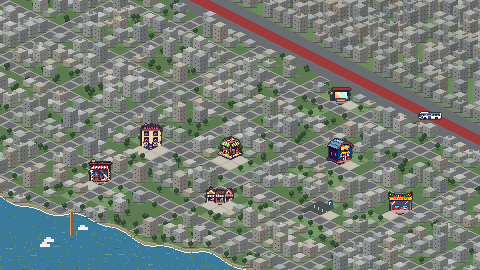
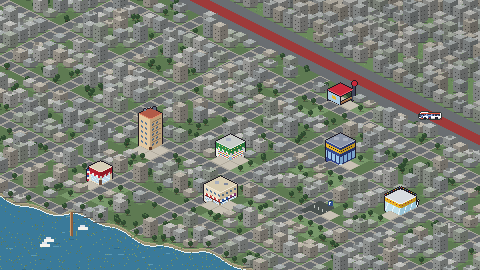
Esc: duraklatma menüsü (devam/ayarlar/ana menü); otoparkta araba kırmızı noktayla; muşta küçüldü; haritadaki mekanlar izometrik olarak yeniden çizildi

diff --git a/tools/make_citymap.py b/tools/make_citymap.py
@@ -10,7 +10,7 @@ import random
 import sys
 
 sys.path.insert(0, os.path.dirname(os.path.abspath(__file__)))
-from make_backgrounds import Painter, H, WOOD  # noqa: E402
+from make_backgrounds import Painter, H, WOOD, STONE, RED, GOLD, GREEN, NAVY  # noqa: E402
 from make_sprites import write_png  # noqa: E402
 import pngio  # noqa: E402
 
@@ -406,6 +406,221 @@ def iso_parking(p, cx, cy):
     p.fill(cx + 8, cy - 9, 5, 5, H("2d4e8c")); p.fill(cx + 9, cy - 8, 1, 3, (255, 255, 255)); p.set(cx + 10, cy - 8, (255, 255, 255))
 
 
+# ---------------------------------------------------------------- Mekan binaları (izometrik, elle; haritayla aynı açı)
+# Her bina kendi tuvalinde çizilir: zemin karosunun merkezi (BX, BY). Sol yüz sol-aşağı, sağ yüz sağ-aşağı bakar.
+
+BW, BHT = 48, 60
+BX, BY = 24, 50
+LIT_PTS = []          # gece yanacak pencereler (tuval koordinatı): place_iso haritaya taşır
+
+
+class IsoB:
+    def __init__(self, hw=13, hh=6, ox=0, oy=0):
+        self.hw, self.hh, self.ox, self.oy = hw, hh, ox, oy
+
+    def ground(self, dx):
+        return BY + self.oy + self.hh - (abs(dx) * self.hh) // self.hw
+
+    def px(self, c, dx, k, col):
+        c.set(BX + self.ox + dx, self.ground(dx) - k, col)
+
+    def body(self, c, h, wl, wr):
+        for dx in range(-self.hw, self.hw + 1):
+            col = wl if dx < 0 else wr
+            for k in range(h):
+                self.px(c, dx, k, col)
+        self.roof(c, h, _shade(wl, 1.12))
+
+    def roof(self, c, h, col, edge=None):
+        cx, cy = BX + self.ox, BY + self.oy - h
+        for dy in range(-self.hh, self.hh + 1):
+            w = self.hw - (abs(dy) * self.hw) // self.hh
+            c.fill(cx - w, cy + dy, w * 2 + 1, 1, col)
+        if edge:
+            for dx in range(-self.hw, self.hw + 1):
+                c.set(cx + dx, cy + self.hh - (abs(dx) * self.hh) // self.hw, edge)
+
+    def band(self, c, k0, k1, cl, cr=None, stripe=None):
+        for dx in range(-self.hw, self.hw + 1):
+            col = cl if dx < 0 else (cr or _shade(cl, 0.82))
+            if stripe and (dx // 2) % 2:
+                col = stripe if dx < 0 else _shade(stripe, 0.85)
+            for k in range(k0, k1):
+                self.px(c, dx, k, col)
+
+    def windows(self, c, ks, col, step=4, w=2, lit=0.3, skip_center=0):
+        for k in ks:
+            for dx in list(range(-self.hw + 2, -skip_center - 1, step)) + list(range(skip_center + 2, self.hw - 1, step)):
+                for q in range(w):
+                    if abs(dx + q) < self.hw:
+                        self.px(c, dx + q, k, col if dx < 0 else _shade(col, 0.85))
+                        self.px(c, dx + q, k + 1, col if dx < 0 else _shade(col, 0.85))
+                if LIGHT_RNG.random() < lit:
+                    LIT_PTS.append((BX + self.ox + dx, self.ground(dx) - k))
+
+
+def _canvas():
+    return Painter(BW, BHT)
+
+
+def b_ev():
+    c = _canvas()
+    b = IsoB(11, 5)
+    b.body(c, 32, H("e2c8a0"), H("bca07a"))
+    b.windows(c, range(5, 30, 5), H("5a7898"), step=4, lit=0.35)
+    for k in range(9, 30, 5):                                   # balkon çizgileri
+        for dx in range(2, b.hw):
+            b.px(c, dx, k - 1, H("8a7458"))
+    for k in range(0, 4):                                       # giriş kapısı (ön köşe)
+        for dx in (-1, 0, 1):
+            b.px(c, dx, k, H("5a3a2a"))
+    b.roof(c, 32, H("b25a48"), H("e08a6a"))
+    c.fill(BX + 3, BY - 32 - 6, 3, 3, STONE[3]); c.fill(BX - 6, BY - 32 - 4, 2, 2, STONE[4])   # su deposu, anten
+    return c
+
+
+def b_market():
+    c = _canvas()
+    b = IsoB(14, 7)
+    b.body(c, 14, H("f0f0ea"), H("ccd0cc"))
+    for k in range(2, 8):                                       # vitrin: renkli ürünler
+        for dx in range(-b.hw + 2, b.hw - 1):
+            if abs(dx) > 1:
+                b.px(c, dx, k, [RED[3], GOLD[3], GREEN[3], NAVY[4], H("e8745a")][(dx * 3 + k) % 5] if (dx + k) % 2 else H("dfeaf2"))
+    for k in range(0, 6):
+        b.px(c, 0, k, H("8fb4cc")); b.px(c, 1, k, H("8fb4cc")); b.px(c, -1, k, H("8fb4cc"))
+    b.band(c, 8, 10, WHITE_L, stripe=H("2f9a4a"))                # tente
+    b.band(c, 10, 14, H("2f8a44"))                              # tabela
+    for dx in range(-b.hw + 3, b.hw - 2, 3):
+        b.px(c, dx, 12, GOLD[4])
+    b.roof(c, 14, H("c8ccc8"), H("e4e6e2"))
+    c.fill(BX - 4, BY - 14 - 3, 5, 3, STONE[5])                  # klima
+    return c
+
+
+def b_gym():
+    c = _canvas()
+    b = IsoB(14, 7)
+    b.body(c, 20, H("34468c"), H("243268"))
+    b.band(c, 4, 11, H("9ac4e8"), H("7aa4cc"))                   # geniş cam şerit
+    for dx in range(-b.hw + 1, b.hw, 4):
+        for k in range(4, 11):
+            b.px(c, dx, k, H("243268"))
+    for k in range(0, 4):
+        for dx in (-1, 0, 1):
+            b.px(c, dx, k, H("cfe7f5"))
+    b.band(c, 14, 18, H("e6b428"))                              # sarı tabela
+    for dx in range(-b.hw + 3, b.hw - 2, 2):
+        b.px(c, dx, 16, H("1b1b22"))
+    b.roof(c, 20, H("8a94a8"), H("aab4c8"))
+    c.fill(BX - 6, BY - 20 - 3, 5, 3, STONE[5]); c.fill(BX + 3, BY - 20 - 2, 5, 3, STONE[5])
+    return c
+
+
+def b_carsi():
+    """Çarşı: tek uzun bina, ön (sağ) cephesi üç dükkana bölünmüş: her birinin kendi tentesi ve vitrini."""
+    c = _canvas()
+    b = IsoB(16, 8)
+    b.body(c, 16, H("e8dcc4"), H("c8b898"))
+    b.windows(c, [12], H("5a7898"), step=4, w=2, lit=0.4)
+    awn = [H("c83a3a"), H("2a5ab0"), H("8a3a7a")]
+    for dx in range(-b.hw + 1, b.hw):
+        sec = 0 if dx < 0 else min(2, 1 + dx // 8)          # sol cephe: kafe; sağ cephe: iki dükkan
+        for k in range(1, 7):                                # vitrinler
+            b.px(c, dx, k, H("dfeaf2") if (dx + k) % 3 else H("8fb4cc"))
+        if dx % 8 == 0 or dx == -1:
+            for k in range(0, 10):
+                b.px(c, dx, k, H("8a7a5a"))                   # dükkan araları
+        for k in (7, 8):                                     # tente
+            b.px(c, dx, k, awn[sec] if (dx // 2) % 2 else WHITE_L)
+        b.px(c, dx, 6, _shade(awn[sec], 0.6))
+    b.roof(c, 16, H("d8ccb0"), H("efe6d2"))
+    c.fill(BX - 5, BY - 16 - 3, 4, 3, STONE[5]); c.fill(BX + 4, BY - 16 - 1, 4, 2, STONE[4])
+    return c
+
+
+def b_galeri():
+    c = _canvas()
+    b = IsoB(15, 7)
+    b.body(c, 14, H("bfe0ec"), H("98c4d8"))                     # cam showroom
+    for dx in range(-b.hw, b.hw + 1, 6):                         # cam yansımaları
+        for k in range(1, 10):
+            b.px(c, dx + k // 3, k, H("e8f6fc"))
+    for (dx, col) in ((-9, RED[3]), (-3, WHITE_L), (5, H("2a5ab0")), (10, H("1b1b22"))):   # içerideki arabalar
+        for q in range(4):
+            for k in (1, 2):
+                b.px(c, dx + q, k, col)
+        b.px(c, dx, 0, H("1b1b22")); b.px(c, dx + 3, 0, H("1b1b22"))
+    b.band(c, 10, 14, H("e6b428"))
+    for dx in range(-b.hw + 2, b.hw - 1, 3):
+        b.px(c, dx, 12, RED[2])
+    b.roof(c, 14, H("d8dce0"), H("eef0f2"))
+    for dx in range(-b.hw, b.hw + 1, 2):                         # bayraklar
+        c.set(BX + dx, BY - 14 - 7 + (abs(dx) * 7) // b.hw - 2, [RED[3], GOLD[3], GREEN[3], NAVY[4]][(dx // 2) % 4])
+    return c
+
+
+def b_berber():
+    c = _canvas()
+    b = IsoB(11, 5)
+    b.body(c, 14, H("ece2c8"), H("c8bc9e"))
+    for k in range(2, 8):
+        for dx in range(-b.hw + 2, b.hw - 1):
+            if abs(dx) > 1:
+                b.px(c, dx, k, H("bcd8ea") if (dx + k) % 4 else H("e8f4fa"))
+    for k in range(0, 6):
+        for dx in (-1, 0, 1):
+            b.px(c, dx, k, H("6a4a3a"))
+    b.band(c, 8, 10, WHITE_L, stripe=H("c8283a"))                # kırmızı-beyaz tente
+    b.band(c, 10, 14, H("b02030"))
+    b.roof(c, 14, H("d8cfb8"), H("ece4d0"))
+    for k in range(0, 12):                                      # berber direği (sol köşe)
+        col = [H("c8283a"), WHITE_L, H("2a4aa0")][(k // 2) % 3]
+        c.set(BX - b.hw - 2, b.ground(-b.hw) - k, col); c.set(BX - b.hw - 1, b.ground(-b.hw) - k, col)
+    return c
+
+
+def b_durak():
+    c = _canvas()
+    b = IsoB(12, 6)
+    for dx in (-b.hw, -1, b.hw):                                 # direkler
+        for k in range(0, 11):
+            b.px(c, dx, k, STONE[2])
+    for dx in range(-b.hw, 0):                                   # cam arka panel ve reklam
+        for k in range(2, 10):
+            b.px(c, dx, k, H("e6b428") if -9 < dx < -4 and 4 < k < 8 else H("a8c8dc"))
+    for dx in range(1, b.hw):                                    # bank
+        b.px(c, dx, 3, WOOD[3]); b.px(c, dx, 4, WOOD[4])
+    b.roof(c, 11, H("c8283a"), H("e85a6a"))
+    c.fill(BX + b.hw + 1, BY - 16, 2, 16, STONE[2]); c.circle(BX + b.hw + 2, BY - 17, 2, H("c8283a"))   # tabela direği
+    return c
+
+
+ISO_BUILDINGS = {"ev": b_ev, "market": b_market, "gym": b_gym, "carsi": b_carsi, "galeri": b_galeri,
+                 "berber": b_berber, "durak": b_durak}
+
+
+def place_iso(p, map_id, name, x, y):
+    """Mekan binasını haritaya bas: kontur, sağ-aşağı gölge, gece pencereleri; etiket için tepe kaydı."""
+    del LIT_PTS[:]
+    c = ISO_BUILDINGS[name]()
+    c.outline((30, 24, 34, 255))
+    ox, oy = x - BX, y - BY
+    for k in range(4):   # yere gölge
+        p.darken(x + 4 + k * 2, y + 2 + k, 12, 1, 0.8, dither=k > 2)
+    top = BHT
+    for yy in range(BHT):
+        for xx in range(BW):
+            col = c.px[yy][xx]
+            if col[3]:
+                p.set(ox + xx, oy + yy, col[:3])
+                top = min(top, yy)
+    for (lx, ly) in LIT_PTS:
+        light(ox + lx, oy + ly, (255, 206, 120), 230)
+    glow(x, y + 4, 7, 55)
+    TOPS.setdefault(map_id, {})[name] = oy + top - y
+
+
 def city_map():
     """İzometrik Beylikdüzü: çapraz sokak ızgarası, gri-renksiz bina blokları, parklar, kuzeyde E-5 ve metrobüs,
     sol altta Marmara kıyısı. Mekanlar renkli PixelLab çizimleri (aynı boyutta), arsaları açık renk."""
@@ -446,10 +661,8 @@ def city_map():
             diamond(p, x, y, H("c8c2b4"), 0, H("b0aa9c"))
             if name == "otopark":
                 iso_parking(p, x, y)
-            elif name == "durak":
-                place(p, "mahalle", "durak", "durak", x, y, scale=0.26, base=4)
             else:
-                place(p, "mahalle", name, name, x, y, scale=ISO_SCALE, base=4)
+                place_iso(p, "mahalle", name, x, y)
             continue
         e5 = E5_J[0] <= j <= E5_J[1]
         road = (i % 6 == 0 or j % 6 == 0) and not e5 and j > E5_J[1]

diff --git a/tools/make_weapons.py b/tools/make_weapons.py
@@ -13,7 +13,7 @@ from make_citymap import load_art, shrink  # noqa: E402
 
 ROOT = os.path.join(os.path.dirname(os.path.abspath(__file__)), "..")
 # id: dövüşte en uzun kenar (piksel), sap hangi köşede ("bl": sol alt, "c": orta = muşta)
-WEAPONS = {"sopa": (22, "bl"), "bicak": (12, "bl"), "musta": (10, "c"), "levye": (20, "bl"), "pala": (20, "bl"),
+WEAPONS = {"sopa": (22, "bl"), "bicak": (12, "bl"), "musta": (6, "c"), "levye": (20, "bl"), "pala": (20, "bl"),
            "balta": (22, "bl")}
 
 

diff --git a/tools/make_rooms.py b/tools/make_rooms.py
@@ -1499,7 +1499,7 @@ def glass_counter(wids):
     c.grad_v(3, 3, w - 6, 22, [H("dfeaf2"), H("a8c4d6"), H("7a98ae")])
     x = 6
     for wid in wids:
-        art = pixellab_art("weapon_" + wid, 26, 18)
+        art = pixellab_art("weapon_" + wid, 14, 9) if wid == "musta" else pixellab_art("weapon_" + wid, 26, 18)   # muşta avuç kadar
         oy = 4 + (20 - art.h) // 2
         for yy in range(art.h):
             for xx in range(art.w):
